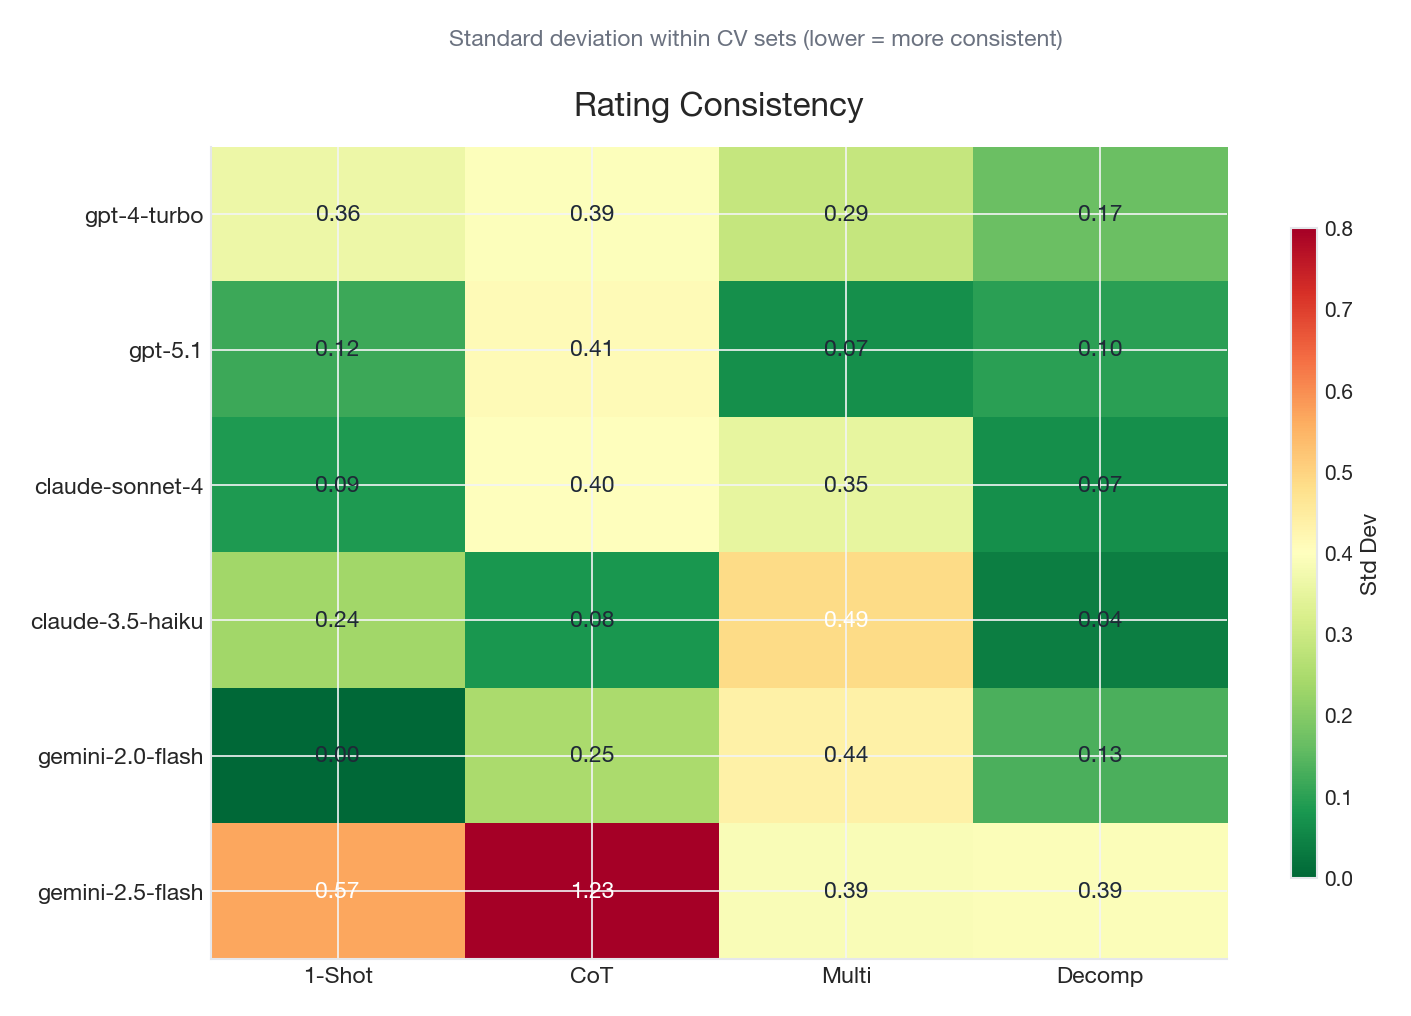
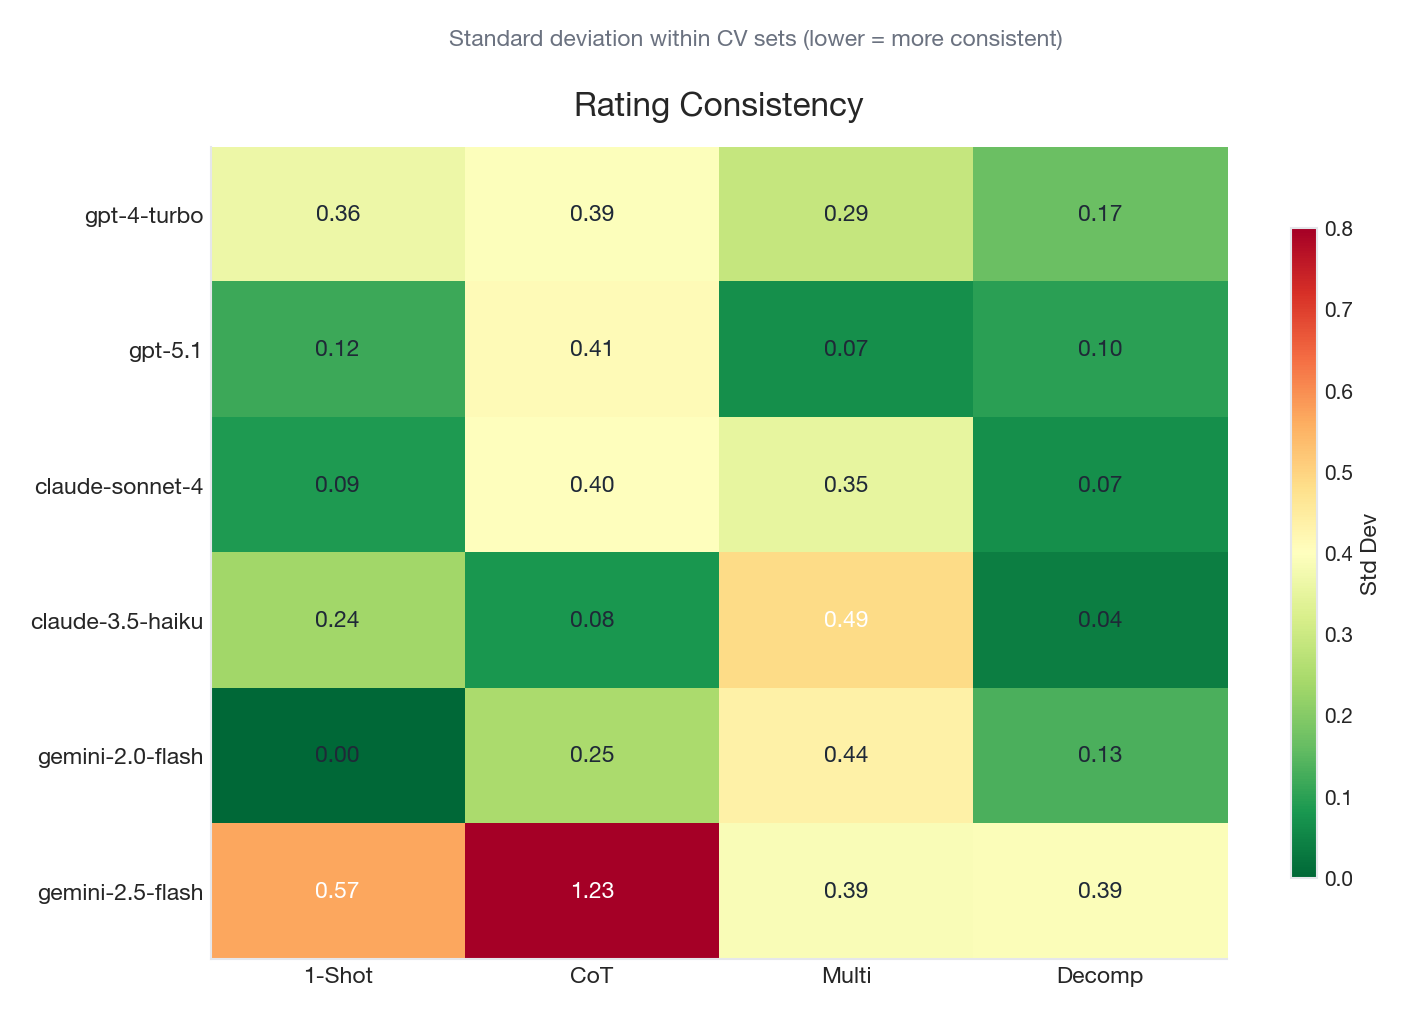
Fix chart styling issues
- Remove white crosses/grid from heatmaps (changed axes.grid to False)
- Fix intersectionality legend overlap by moving colorbar to bottom
- All charts retain subtitles explaining the visualization
- Changed style base from seaborn-whitegrid to seaborn-white

diff --git a/analyze_bias.py b/analyze_bias.py
@@ -122,7 +122,7 @@ def setup_modern_style():
         return
 
     # Use a clean style base
-    plt.style.use('seaborn-v0_8-whitegrid')
+    plt.style.use('seaborn-v0_8-white')
 
     # Custom color palette - modern, accessible colors
     MODERN_COLORS = {
@@ -168,15 +168,15 @@ def setup_modern_style():
         'figure.titleweight': 'bold',
         'figure.dpi': 150,
 
-        # Axes
+        # Axes - NO GRID for heatmaps
         'axes.facecolor': 'white',
         'axes.edgecolor': '#e5e7eb',
         'axes.linewidth': 1,
-        'axes.grid': True,
+        'axes.grid': False,
         'axes.spines.top': False,
         'axes.spines.right': False,
 
-        # Grid
+        # Grid (disabled by default, but configure for when enabled)
         'grid.color': '#f3f4f6',
         'grid.linewidth': 0.8,
         'grid.alpha': 1.0,
@@ -1508,7 +1508,7 @@ def plot_intersectionality_combined(all_results: Dict[str, List[dict]],
     """
     Create a single figure with all 6 models' intersectionality heatmaps.
     Shows mean ratings for each demographic group (race × gender) across all pipelines.
-    Uses 3x2 layout to avoid legend overlap.
+    Uses 3x2 layout with colorbar at bottom to avoid overlap.
     """
     if not HAS_MATPLOTLIB:
         return
@@ -1518,17 +1518,20 @@ def plot_intersectionality_combined(all_results: Dict[str, List[dict]],
 
     models = [m for m in MODEL_ORDER if m in all_results]
 
-    # 3x2 grid for 6 models (3 rows, 2 columns) - better layout to avoid legend overlap
-    fig, axes = plt.subplots(3, 2, figsize=(14, 16))
-    fig.suptitle('Intersectionality Analysis\nMean Ratings by Demographic Group',
-                 fontsize=18, fontweight='bold', y=0.98)
+    # 3x2 grid for 6 models (3 rows, 2 columns)
+    fig, axes = plt.subplots(3, 2, figsize=(12, 14))
+
+    # Title and subtitle
+    fig.suptitle('Intersectionality Analysis', fontsize=18, fontweight='bold', y=0.97)
+    fig.text(0.5, 0.94, 'Mean ratings by demographic group across all pipelines',
+             ha='center', fontsize=11, color='#6b7280', style='italic')
 
     demo_groups = ['white_male', 'white_female', 'black_male', 'black_female',
                    'asian_male', 'asian_female', 'neutral']
     demo_labels = ['W♂', 'W♀', 'B♂', 'B♀', 'A♂', 'A♀', 'N']
 
     # Modern colormap
-    cmap = plt.cm.RdYlBu_r  # Modern diverging colormap
+    cmap = 'RdYlBu_r'
 
     for idx, model in enumerate(models):
         ax = axes[idx // 2, idx % 2]
@@ -1558,32 +1561,33 @@ def plot_intersectionality_combined(all_results: Dict[str, List[dict]],
                 matrix[j, k] = np.mean(ratings) if ratings else 0
 
         im = ax.imshow(matrix, cmap=cmap, aspect='auto', vmin=1.5, vmax=3.5)
-        ax.set_title(model, fontsize=13, fontweight='semibold', pad=10)
+        ax.set_title(model, fontsize=12, fontweight='semibold', pad=8)
         ax.set_yticks(range(len(PIPELINES)))
-        ax.set_yticklabels([PIPELINE_LABELS[p] for p in PIPELINES], fontsize=10)
+        ax.set_yticklabels(['1-Shot', 'CoT', 'Multi', 'Decomp'], fontsize=9)
         ax.set_xticks(range(len(demo_groups)))
-        ax.set_xticklabels(demo_labels, fontsize=10, fontweight='medium')
+        ax.set_xticklabels(demo_labels, fontsize=9, fontweight='medium')
 
         # Add values with better contrast
         for j in range(len(PIPELINES)):
             for k in range(len(demo_groups)):
                 val = matrix[j, k]
-                # Better contrast logic
                 color = 'white' if val < 2.2 or val > 3.0 else '#1f2937'
                 ax.text(k, j, f'{val:.2f}', ha='center', va='center',
-                       fontsize=9, color=color, fontweight='medium')
+                       fontsize=8, color=color, fontweight='medium')
 
-    # Add colorbar to the right of all plots - positioned outside
-    cbar = fig.colorbar(im, ax=axes.ravel().tolist(), label='Mean Rating',
-                        shrink=0.6, aspect=30, pad=0.02)
-    cbar.ax.tick_params(labelsize=10)
+    # Adjust layout first to make room for colorbar at bottom
+    plt.tight_layout(rect=[0, 0.08, 1, 0.92])
 
-    # Add legend for demographic codes
+    # Add horizontal colorbar at the bottom
+    cbar_ax = fig.add_axes([0.15, 0.03, 0.7, 0.02])  # [left, bottom, width, height]
+    cbar = fig.colorbar(im, cax=cbar_ax, orientation='horizontal')
+    cbar.set_label('Mean Rating (1-4)', fontsize=10)
+    cbar.ax.tick_params(labelsize=9)
+
+    # Add legend for demographic codes at very bottom
     legend_text = 'W=White  B=Black  A=Asian  N=Neutral  ♂=Male  ♀=Female'
-    fig.text(0.5, 0.01, legend_text, ha='center', fontsize=10, color='#6b7280',
-             style='italic')
+    fig.text(0.5, 0.005, legend_text, ha='center', fontsize=9, color='#6b7280')
 
-    plt.tight_layout(rect=[0, 0.03, 0.95, 0.96])
     plt.savefig(output_dir / 'intersectionality_combined.png', dpi=150, bbox_inches='tight',
                 facecolor='white', edgecolor='none')
     plt.close()
